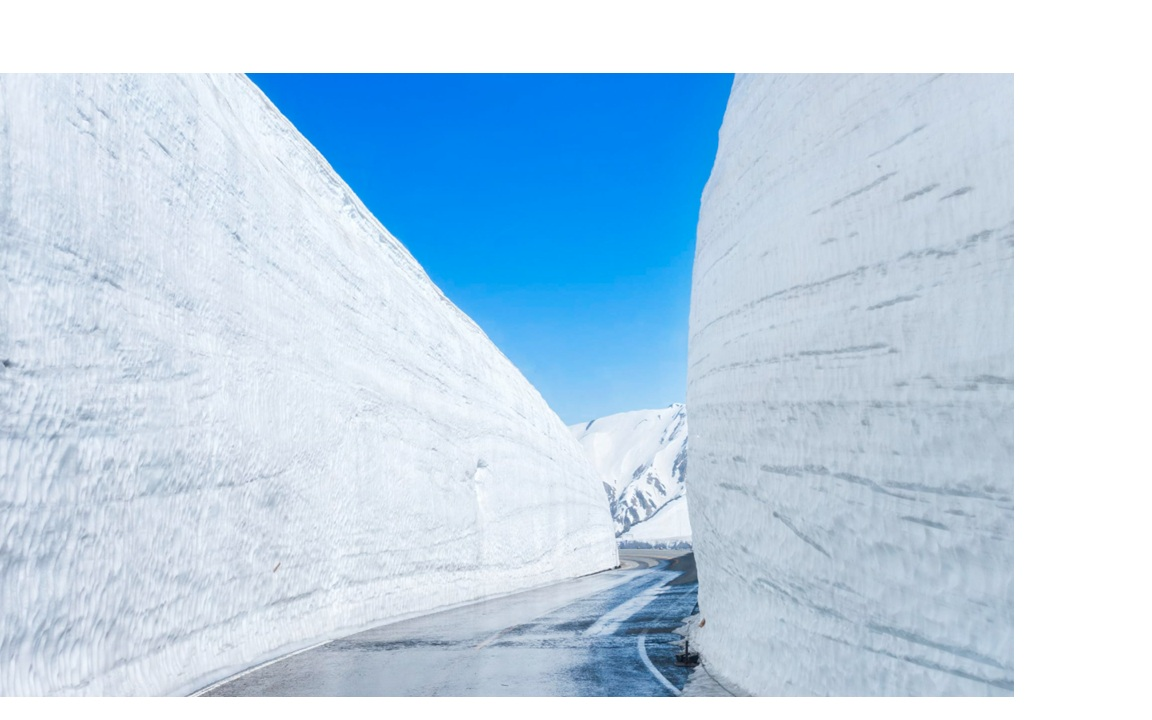
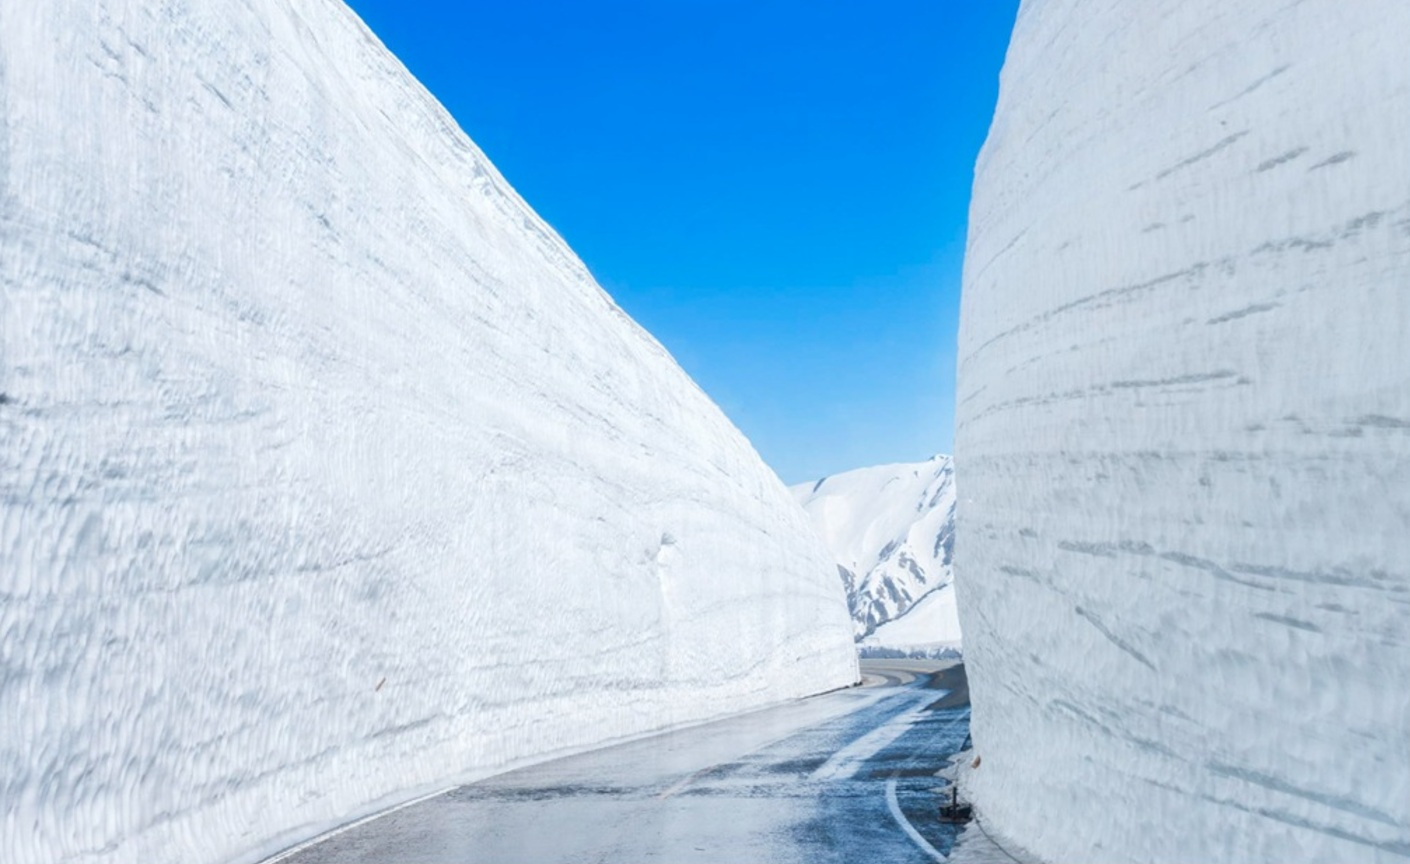
將精選做完安插在左側可以收和跟展開取第一項作為精選

diff --git a/html.japan/js/highlights.js b/html.japan/js/highlights.js
@@ -1,0 +1,86 @@
+/* highlights.js — 本區精選：渲染到左側 .rail-list 內 (#rail-highlights)
+   - 不建立 Tab/按鈕
+   - 跟著 .rail-list 的收合一起收
+   - 卡片可點擊，跳詳細頁（開新分頁）
+*/
+
+import { data as DATA } from "./data.js";
+import { regionCategoryPhotos as PHOTOS } from "./detailView.js";
+
+const DETAIL_PAGE = "detail.html"; // 換成你的詳頁檔名
+
+function firstItem(arr){
+  if (!Array.isArray(arr) || !arr.length) return null;
+  const v = arr[0];
+  return typeof v === "string" ? { 名稱:v, 說明:"" } : { 名稱: v.名稱 || v.name || "", 說明: v.說明 || v.desc || "" };
+}
+function findFestivalFirst(fes){
+  if (!fes) return null;
+  const months = Object.keys(fes).sort((a,b)=>+a-+b);
+  for (const m of months){
+    const arr = fes[m];
+    if (Array.isArray(arr) && arr.length){
+      const v = arr[0];
+      return { 名稱: v.名稱 || v.name || "", 說明: v.說明 || v.desc || "" };
+    }
+  }
+  return null;
+}
+function resolveThumb(region, category, name){
+  const arr = PHOTOS?.[region]?.[category];
+  if (Array.isArray(arr) && arr.length){
+    const hit = name ? arr.find(p=>p.includes(name)) : null;
+    return hit || arr[0];
+  }
+  const fallback = { 景點:"./image/placeholder/spot.jpg", 美食:"./image/placeholder/food.jpg", 慶典:"./image/placeholder/festival.jpg" };
+  return fallback[category] || "./image/placeholder/blank.jpg";
+}
+function detailUrl({ region, category, name }){
+  const q = new URLSearchParams({ region, category, name }).toString();
+  return `${DETAIL_PAGE}?${q}`;
+}
+
+export function renderRailHighlights(region){
+  const slot = document.getElementById("rail-highlights");
+  const list = slot?.querySelector("#rail-hl-list");
+  if (!slot || !list || !region) return;
+
+  const R = (DATA || {})[region] || {};
+  const spot = firstItem(R.景點);
+  const food = firstItem(R.美食);
+  const fes  = findFestivalFirst(R.慶典);
+
+  const mk = (cat, item) => {
+    if (!item || !item.名稱) return "";
+    const thumb = resolveThumb(region, cat, item.名稱);
+    const kickerClass =
+      cat === "景點" ? "rail-hl-kicker spot" :
+      cat === "美食" ? "rail-hl-kicker food" : "rail-hl-kicker fes";
+    const href = detailUrl({ region, category: cat, name: item.名稱 });
+
+    return `
+      <a class="rail-hl-card" href="${href}" target="_blank" rel="noopener">
+        <img class="rail-hl-thumb" src="${thumb}" alt="${item.名稱}">
+        <div class="rail-hl-meta">
+          <div class="${kickerClass}">${cat}</div>
+          <h6 class="rail-hl-title" title="${item.名稱}">${item.名稱}</h6>
+        </div>
+      </a>
+    `;
+  };
+
+  // 排序：景點精選、美食精選、慶典精選
+  list.innerHTML = [ mk("景點", spot), mk("美食", food), mk("慶典", fes) ].join("");
+}
+
+// 事件：切換地區就刷新精選（main01 已經 import 本檔，這裡自動掛上監聽）
+document.addEventListener("region-selected", (e) => {
+  const region = e.detail?.region;
+  if (region) renderRailHighlights(region);
+});
+
+// 初始：若一開始就有 currentRegion
+document.addEventListener("DOMContentLoaded", () => {
+  const initRegion = window.currentRegion;
+  if (initRegion) renderRailHighlights(initRegion);
+});

diff --git a/html.japan/css/style_01.css b/html.japan/css/style_01.css
@@ -298,6 +298,7 @@ svg path.hover-dim {
     position: relative;
     width: 100%;
     max-width: 1200px;
+    max-height: 600px;
     aspect-ratio: 16 / 9;
     /* 保持比例，避免照片把版面撐開 */
     margin: 10px 0;
@@ -306,6 +307,12 @@ svg path.hover-dim {
     background: #f5f5f5;
     /* 沒圖時背景顏色 */
     z-index: 10;
+}
+.slideshow-container img {
+    width: 100%;
+    height: 100%;
+    object-fit: cover;      /* 填滿容器，不變形 */
+    object-position: center; /* 以中間對齊裁切 */
 }
 
 
@@ -698,11 +705,11 @@ a:hover {
     aspect-ratio: unset;
 }
 
-.mySlides img {
+/* .mySlides img {
     width: 100%;
     height: 100%;
     object-fit: contain;
-}
+} */
 
 .slideshowWithDot {
     flex: 0 0 1200px;
@@ -711,6 +718,7 @@ a:hover {
     /* 寬螢幕時不要太寬 */
     display: flex;
     flex-direction: column;
+    margin-: ;
 }
 
 .region-layout {
@@ -720,7 +728,7 @@ a:hover {
     display: flex;
     /* 你已是 flex；這裡保險覆蓋 */
     align-items: flex-start;
-    margin-top: 16px;
+    margin-top: 30px;
     /* 讓下排整組與上排拉開距離 */
 }
 
@@ -995,8 +1003,9 @@ a:hover {
 
 /* 直欄外觀 */
 .category-rail {
-    width: 180px;
+    width: 220px;
     position: sticky;
+    flex-shrink: 0;
     top: 12px;
     align-self: start;
     display: flex;
@@ -1028,7 +1037,7 @@ a:hover {
 }
 
 .category-rail.collapsed {
-    width: 150px;
+    width: 220px;
 }
 
 .category-rail.collapsed .rail-list {
@@ -1088,15 +1097,23 @@ a:hover {
     /* 讓標題不會與小地圖重疊 */
 }
 
-#category-rail.category-rail {
-    flex: 0 0 200px;
-    /* 固定欄寬 */
-    align-self: flex-start;
-    position: sticky;
-    top: 12px;
-    margin-left: 20px;
-    /* 與小地圖的 left:20px 對齊視覺 */
+/* #category-rail{
+  width: 190px;
+  background: #fafafa;
+  border-right: 1px solid #e6e6e6;
+  padding: 14px;
+  position: sticky; top: 80px;
 }
+#category-rail .item{
+  display:flex; align-items:center; gap:10px;
+  padding:10px 8px; border-radius:10px; cursor:pointer;
+}
+category-rail .item:hover{ background: rgba(0,0,0,.04); }
+#category-rail .item.active{ 
+  background:#fff; 
+  box-shadow: 0 2px 8px rgba(0,0,0,.06);
+  border-left:4px solid #6aa6ff; /* 或你的主色 */
+} */
 
 /* 2) 當地圖縮小時，右側整個 info 面板往右留出空間 */
 .map-container.shrinked~.info-container.expanded {

diff --git a/html.japan/js/detailView.js b/html.japan/js/detailView.js
@@ -12,7 +12,7 @@ let current = { region: null, category: "景點" };
  * 若沒有對應的類別圖片，會自動退回用區域的預設輪播（slideshow.js 既有）。
  * 路徑請依你的專案調整或之後慢慢補。
  */
-const regionCategoryPhotos = {
+export const regionCategoryPhotos = {
   "北海道": {
     "景點": [
       "./image/pic/北海道/札幌時計台.jpg",
@@ -56,7 +56,7 @@ const regionCategoryPhotos = {
   },
   "關東": {
     景點: [
-      "./image/pic/關東/東京晴空塔.jpg",
+      "./image/pic/關東/晴空塔.jpg",
       "./image/pic/關東/淺草寺.jpg",
       "./image/pic/關東/東京塔.jpg",
       "./image/pic/關東/日光東照宮.jpg",
@@ -187,6 +187,15 @@ function ensureCategoryRail() {
         <span class="label">${c}</span>
       </button>
     `).join("");
+    if (!list.querySelector('#rail-highlights')) {
+      list.insertAdjacentHTML('beforeend', `
+    <section id="rail-highlights" class="rail-highlights" aria-hidden="false">
+      <h5 class="hl-titlebar">本區精選</h5>
+      <div class="rail-hl-list" id="rail-hl-list"></div>
+    </section>
+  `);
+    }
+
 
     // 切換分類
     list.addEventListener("click", (e) => {
@@ -279,6 +288,7 @@ function enterDetail(region) {
   showRegionInfo(region);
   ensureCategoryRail();
   setCategory("景點");
+
 }
 
 // 從地圖點選區域後進入詳情

diff --git a/html.japan/css/hightligjt.css b/html.japan/css/hightligjt.css
@@ -1,0 +1,32 @@
+/* 左側 rail 版的精選卡片（會比主內容更窄） */
+.rail-highlights{
+  margin-top: 12px;
+  padding: 10px;
+  background: #fff;
+  border: 1px solid #E6E9EE;
+  border-radius: 12px;
+  box-shadow: 0 4px 10px rgba(16,24,40,.06);
+}
+.rail-highlights h5{
+  margin: 0 0 8px;
+  font-weight: 800;
+  letter-spacing: .02em;
+  display:flex; align-items:center; gap:6px;
+}
+.rail-hl-list{ display: grid; gap: 8px; }
+.rail-hl-card{
+  display: grid; grid-template-columns: 64px 1fr; gap: 8px;
+  align-items: center;
+  border: 1px solid #EEF1F6; border-radius: 10px; padding: 6px;
+  background: #fff; text-decoration: none; color: inherit;
+}
+.rail-hl-card:hover{ box-shadow: 0 6px 16px rgba(16,24,40,.08); transform: translateY(-1px); }
+.rail-hl-thumb{ width: 64px; height: 48px; border-radius: 8px; object-fit: cover; background:#f2f4f7; }
+.rail-hl-title{
+  margin:0; font-weight: 800; font-size: 14px; line-height:1.2;
+  white-space: nowrap; overflow: hidden; text-overflow: ellipsis;
+}
+.rail-hl-kicker{ font-size: 11px; padding: 1px 6px; border-radius: 999px; display:inline-block; margin-bottom:2px; background:#F7F8FA; color:#586174; }
+.rail-hl-kicker.spot{ background:#E9F3FF; color:#135DFF; }
+.rail-hl-kicker.food{ background:#FFF2E5; color:#FF8A00; }
+.rail-hl-kicker.fes { background:#F1E8FF; color:#7A3EF0; }

diff --git a/html.japan/japan_project.html b/html.japan/japan_project.html
@@ -6,6 +6,7 @@
   <meta name="viewport" content="width=device-width, initial-scale=1.0" />
   <title>日本旅遊互動地圖 (RWD)</title>
   <link rel="stylesheet" href="css/style_01.css" />
+  <link rel="stylesheet" href="css/hightligjt.css" />
   <link href="https://fonts.googleapis.com/icon?family=Material+Icons" rel="stylesheet">
 
 </head>
@@ -169,11 +170,9 @@
 <div class="header-bar">
   <!-- 左邊是縮小的小地圖（自動定位到左上角） -->
   <div class="map-container shrinked"></div>
-
   <!-- 右邊是標題 -->
   <h3 id="region-name"></h3>
 </div>
-
   <div class="info-container" id="info-container">
     <div class="section">
       <!-- <h3 id="region-name"></h3> -->

diff --git a/html.japan/js/main01.js b/html.japan/js/main01.js
@@ -5,7 +5,6 @@ import "./info.js";
 import "./map.js";
 import "./slideshow.js";
 import "./detailView.js";
+import "./highlights.js";
 
-
-
-
+// main01.js
